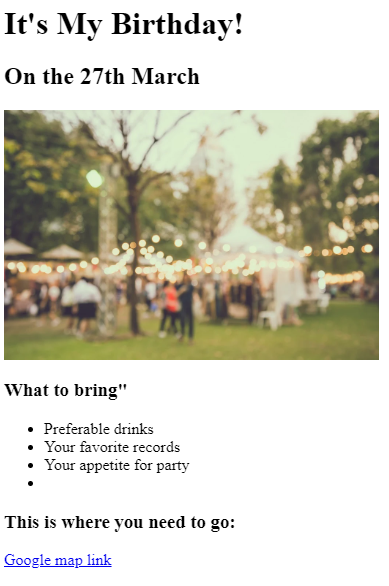
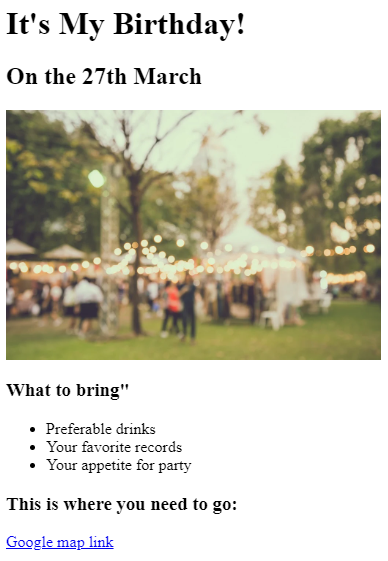
Add files via upload

diff --git a/index.html b/index.html
@@ -13,7 +13,7 @@
     <hr>
     
     <h3><a href="./public/movie-ranking.html">Movie Ranking Project</a></h3>
-        <img src="./assets/images/movie-ranking-yiannis.png" height="330" alt="movie ranking project preview">
+        <img src="./assets/images/movie-ranking-yiannis.png" height="300" alt="movie ranking project preview">
 
     <h3><a href="./public/birthday-invite.html">Birthday Invite Project</a></h3>
         <img src="./assets/images/birthday-invite-yiannis-screenshot.png" height="400" alt="birthday invite project preview">

diff --git a/public/birthday-invite.html b/public/birthday-invite.html
@@ -8,7 +8,7 @@
 <ul>
     <li>Preferable drinks</li>
     <li>Your favorite records</li>
-    <li>Your appetite for party<li>
+    <li>Your appetite for party</li>
 </ul>
 
 <h3>This is where you need to go:</h3>
